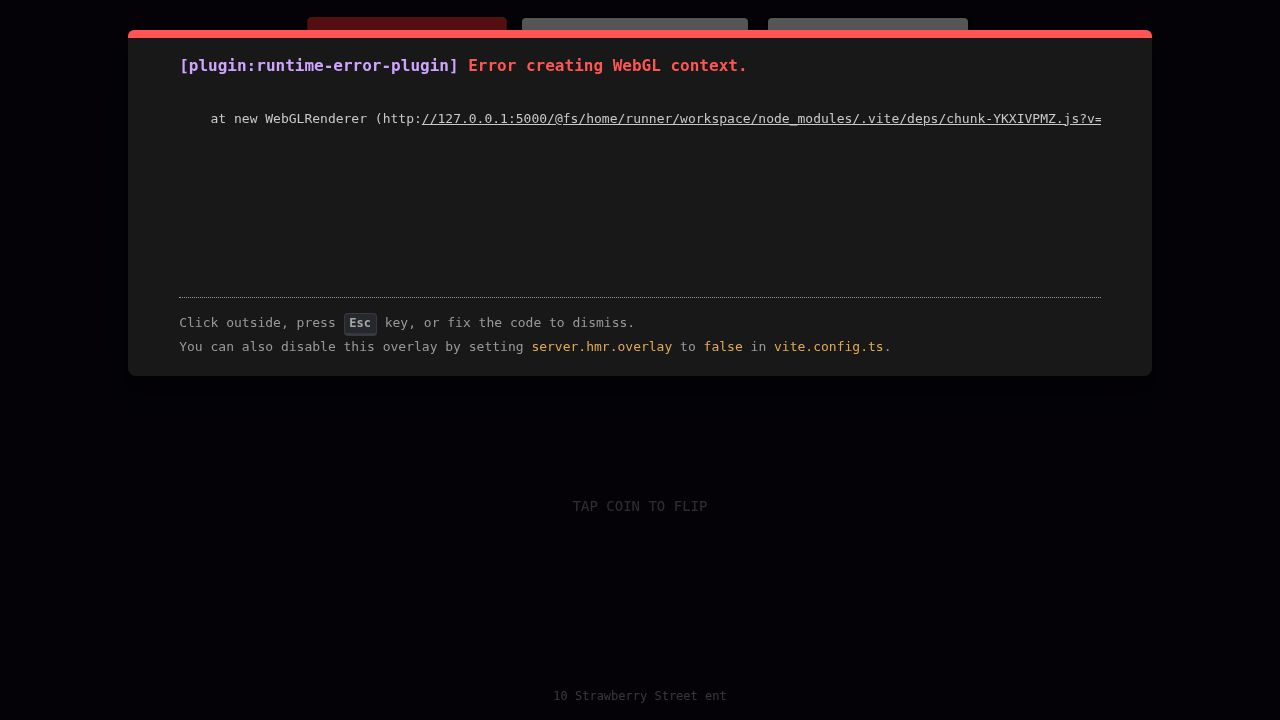
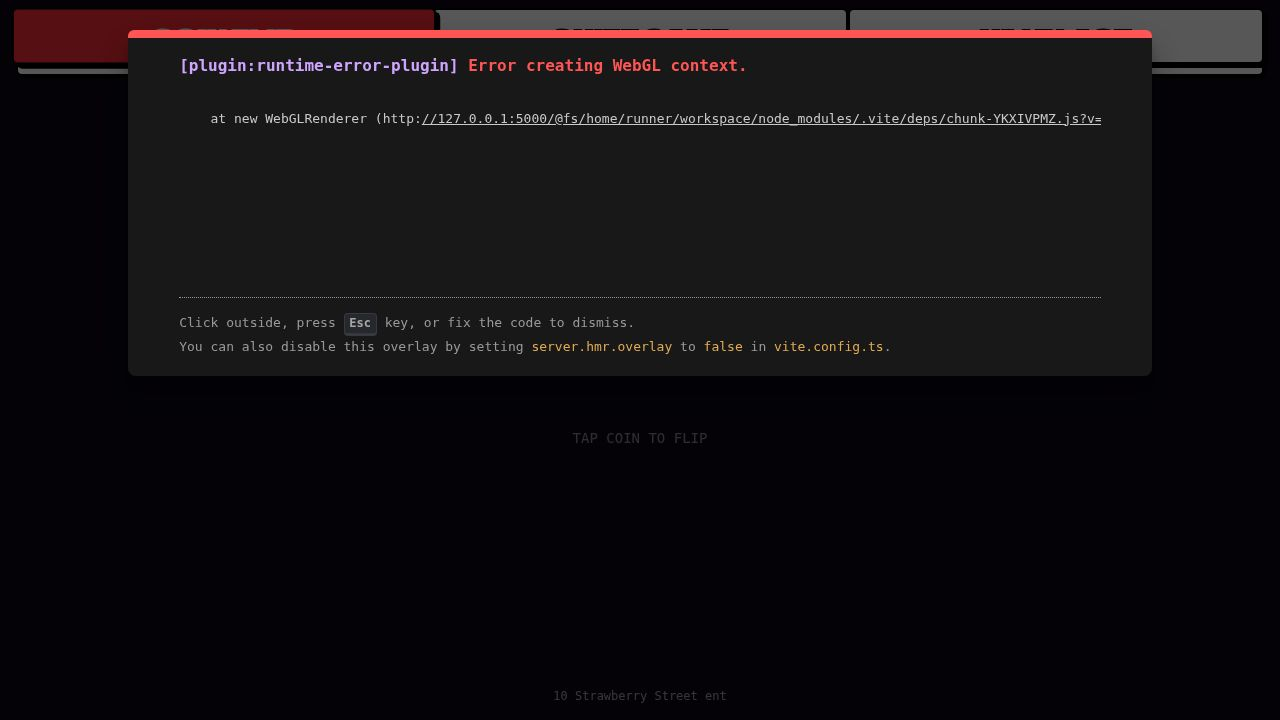
Maximize game screen and move score to bottom
Update BlockBlast layout to use full screen real estate, maximize grid size, and reposition score and round information to a footer element.

Replit-Commit-Author: Agent
Replit-Commit-Session-Id: 8da29807-a2a6-4d3a-9ab0-459441696330
Replit-Commit-Checkpoint-Type: full_checkpoint
Replit-Commit-Event-Id: e09f2753-dd92-4af0-b2ee-6c89a6a24548
Replit-Commit-Screenshot-Url: https://storage.googleapis.com/screenshot-production-us-central1/276e9902-4f5b-442f-8093-76466617e840/8da29807-a2a6-4d3a-9ab0-459441696330/EKNeit0
Replit-Helium-Checkpoint-Created: true

Changed region(s): [[0.0, 0.0, 1.0, 0.1222]]

diff --git a/client/src/pages/BlockBlast.tsx b/client/src/pages/BlockBlast.tsx
@@ -385,7 +385,7 @@ export default function BlockBlast() {
   });
 
   return (
-    <div className="flex flex-col items-center gap-2 w-full max-w-[90vw] md:max-w-md mt-2 mx-auto select-none touch-none relative">
+    <div className="flex flex-col items-center justify-between h-full w-full max-w-lg mx-auto select-none touch-none relative px-2 pb-2">
         {/* Custom Game Over Overlay */}
         <AnimatePresence>
             {gameOver && (
@@ -420,73 +420,70 @@ export default function BlockBlast() {
             )}
         </AnimatePresence>
 
-        <div className="flex justify-between w-full items-center px-2 mb-2">
-            <div className="text-xs font-mono opacity-70">ROUND {round}</div>
-            <div className="font-mono text-lg">SCORE: {score}</div>
-        </div>
-
-        {/* Grid */}
-        <div 
-            ref={gridRef}
-            className="grid gap-0.5 bg-black p-1.5 rounded-xl border-4 border-white/40 shadow-2xl w-full aspect-square max-w-[320px] relative z-0"
-            style={{ gridTemplateColumns: `repeat(${GRID_SIZE}, minmax(0, 1fr))` }}
-        >
-            {grid.map((row, r) => 
-                row.map((cell, c) => {
-                    const isClearing = clearingCells.some(cell => cell.r === r && cell.c === c);
-                    
-                    // Check if this cell is part of the ghost preview
-                    let isGhost = false;
-                    if (hoverPlacement && !cell) {
-                        const shape = currentShapes[hoverPlacement.shapeIndex];
-                        if (shape) {
-                            isGhost = shape.points.some(([dx, dy]: number[]) => 
-                                hoverPlacement.r + dy === r && hoverPlacement.c + dx === c
-                            );
+        {/* Grid Area - Maximize Size */}
+        <div className="flex-1 flex items-center justify-center w-full min-h-0 my-2">
+            <div 
+                ref={gridRef}
+                className="grid gap-0.5 bg-black p-1.5 rounded-xl border-4 border-white/40 shadow-2xl w-full aspect-square max-h-full relative z-0"
+                style={{ gridTemplateColumns: `repeat(${GRID_SIZE}, minmax(0, 1fr))` }}
+            >
+                {grid.map((row, r) => 
+                    row.map((cell, c) => {
+                        const isClearing = clearingCells.some(cell => cell.r === r && cell.c === c);
+                        
+                        // Check if this cell is part of the ghost preview
+                        let isGhost = false;
+                        if (hoverPlacement && !cell) {
+                            const shape = currentShapes[hoverPlacement.shapeIndex];
+                            if (shape) {
+                                isGhost = shape.points.some(([dx, dy]: number[]) => 
+                                    hoverPlacement.r + dy === r && hoverPlacement.c + dx === c
+                                );
+                            }
                         }
-                    }
 
-                    return (
-                        <motion.div
-                            key={`${r}-${c}`}
-                            animate={shakeGrid && cell ? getRandomShake() : { x: 0, y: 0, rotate: 0 }}
-                            transition={{ duration: 0.25, ease: "easeInOut" }}
-                            className={`w-full h-full rounded-sm border transition-colors relative 
-                                ${cell ? 'bg-white border-white/5' : 
-                                  isGhost ? 'bg-green-500/60 border-2 border-green-400 animate-pulse z-10' : 
-                                  'bg-white/5 border-white/10'}`}
-                            style={{
-                                backgroundImage: cell ? `url(${cell})` : 'none',
-                                backgroundSize: 'cover',
-                                backgroundPosition: 'center',
-                                backgroundRepeat: 'no-repeat'
-                            }}
-                        >
-                            {/* Explosion Animation Overlay */}
-                            <AnimatePresence>
-                                {isClearing && (
-                                    <motion.div 
-                                        initial={{ opacity: 0, scale: 0.5, rotate: 0 }}
-                                        animate={{ 
-                                            opacity: [0, 1, 1, 0.8, 0], 
-                                            scale: [0.5, 1.5, 2.5, 3, 3.5],
-                                            rotate: [0, 45, 90, 180, 270],
-                                            backgroundColor: ["#fff", "#ff0000", "#ffff00", "#ff4500", "#fff"]
-                                        }}
-                                        exit={{ opacity: 0 }}
-                                        transition={{ duration: 0.25, ease: "easeOut" }}
-                                        className="absolute inset-0 z-20 rounded-full mix-blend-screen pointer-events-none"
-                                    />
-                                )}
-                            </AnimatePresence>
-                        </motion.div>
-                    );
-                })
-            )}
+                        return (
+                            <motion.div
+                                key={`${r}-${c}`}
+                                animate={shakeGrid && cell ? getRandomShake() : { x: 0, y: 0, rotate: 0 }}
+                                transition={{ duration: 0.25, ease: "easeInOut" }}
+                                className={`w-full h-full rounded-sm border transition-colors relative 
+                                    ${cell ? 'bg-white border-white/5' : 
+                                      isGhost ? 'bg-green-500/60 border-2 border-green-400 animate-pulse z-10' : 
+                                      'bg-white/5 border-white/10'}`}
+                                style={{
+                                    backgroundImage: cell ? `url(${cell})` : 'none',
+                                    backgroundSize: 'cover',
+                                    backgroundPosition: 'center',
+                                    backgroundRepeat: 'no-repeat'
+                                }}
+                            >
+                                {/* Explosion Animation Overlay */}
+                                <AnimatePresence>
+                                    {isClearing && (
+                                        <motion.div 
+                                            initial={{ opacity: 0, scale: 0.5, rotate: 0 }}
+                                            animate={{ 
+                                                opacity: [0, 1, 1, 0.8, 0], 
+                                                scale: [0.5, 1.5, 2.5, 3, 3.5],
+                                                rotate: [0, 45, 90, 180, 270],
+                                                backgroundColor: ["#fff", "#ff0000", "#ffff00", "#ff4500", "#fff"]
+                                            }}
+                                            exit={{ opacity: 0 }}
+                                            transition={{ duration: 0.25, ease: "easeOut" }}
+                                            className="absolute inset-0 z-20 rounded-full mix-blend-screen pointer-events-none"
+                                        />
+                                    )}
+                                </AnimatePresence>
+                            </motion.div>
+                        );
+                    })
+                )}
+            </div>
         </div>
 
         {/* Shape Selector - Draggable */}
-        <div className="flex gap-4 min-h-[120px] items-center justify-evenly w-full relative z-10 px-2 overflow-visible mb-4">
+        <div className="flex gap-4 h-[120px] items-center justify-evenly w-full relative z-10 px-2 overflow-visible shrink-0 mb-2">
             {currentShapes.map((shape, i) => (
                 shape ? (
                     <motion.div
@@ -527,13 +524,22 @@ export default function BlockBlast() {
             ))}
         </div>
 
-        <div className="text-xs opacity-50 text-center">
-            Drag shapes onto the grid. Clear lines to explode blocks!
+        {/* Footer Info & Controls */}
+        <div className="flex justify-between w-full items-center px-4 py-2 shrink-0 border-t border-white/10 bg-black/20 rounded-lg">
+            <div className="flex flex-col items-start">
+                <div className="text-[10px] font-mono opacity-50 leading-none mb-1">ROUND</div>
+                <div className="text-xl font-bold font-mono text-white/90 leading-none">{round}</div>
+            </div>
+            
+            <Button onClick={resetGame} variant="ghost" size="sm" className="h-8 text-xs opacity-50 hover:opacity-100 hover:bg-white/10 text-red-400 hover:text-red-300">
+                RESET
+            </Button>
+
+            <div className="flex flex-col items-end">
+                <div className="text-[10px] font-mono opacity-50 leading-none mb-1">SCORE</div>
+                <div className="text-xl font-bold font-mono text-yellow-400 leading-none">{score}</div>
+            </div>
         </div>
-        
-        <Button onClick={resetGame} variant="outline" className="border-white/20 text-white hover:bg-white/10">
-            RESET GAME
-        </Button>
       </div>
   );
 }
